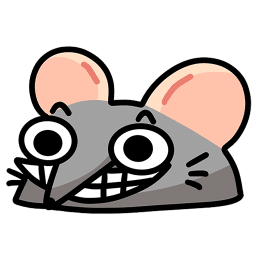
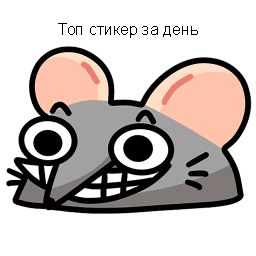
fix: fix output format

Changed region(s): [[0.2188, 0.0938, 0.5312, 0.1562], [0.5625, 0.0938, 0.75, 0.1562], [0.75, 0.125, 0.7812, 0.1562]]

diff --git a/VKInteraction.py b/VKInteraction.py
@@ -9,11 +9,10 @@ from Utils.ReturnGraphicUtils import return_graphic
 token = os.getenv("VK_TOKEN")
 
 PEER_ID = 2000000000 + 234  # ID Беседы ПИ. НЕ ОТПРАВЛЯЙТЕ НИЧЕГО ТУДА, МЕНЯЙТЕ В SEND_REPORT НА ДРУГОЙ ID
-#PEER_ID = 2000000000 + 90
+# PEER_ID = 2000000000 + 90
 # Инициализация сессии
 vk_session = vk_api.VkApi(token=token)
 vk = vk_session.get_api()
-
 
 
 # Функция для получения сообщений за сутки
@@ -24,9 +23,9 @@ def get_messages_for_day(peer_id, start_time, end_time):
 
     while True:
         response = vk.messages.getHistory(
-            peer_id = peer_id,
-            count = count,
-            offset = offset
+            peer_id=peer_id,
+            count=count,
+            offset=offset
         )
 
         # Добавляем полученные сообщения в список
@@ -48,7 +47,7 @@ def get_messages_for_day(peer_id, start_time, end_time):
 def get_user_name(user_id):
     if user_id < 0:  # Если ID отрицательный, это группа
         return f"Группа {abs(user_id)}"
-    user_info = vk.users.get(user_ids = user_id)[0]
+    user_info = vk.users.get(user_ids=user_id)[0]
     return f"{user_info['first_name']} {user_info['last_name']}"
 
 
@@ -70,17 +69,6 @@ def send_report(peer_id):
         f"🤠 Краткий пересказ, о чем говорили за день:\n\n{gpt_summary}\n\n"
     )
     # Чтобы отправлять не в ту же беседу, откуда парсились сообщения - замени peer_id на нужный параметр
-    vk.messages.send(peer_id=peer_id, message=report, random_id=int(time.time()))
-    time.sleep(1)
-
-    vk.messages.send(peer_id=peer_id, message="🏆 Самый часто встречающийся за день стикер",
-                     attachment=sticker_attachment, random_id=int(time.time()))
-    time.sleep(1)
-
-    vk.messages.send(peer_id=peer_id, message="",
-                     attachment=msgs_by_time_attachment, random_id=int(time.time()))
-    time.sleep(1)
-
-    vk.messages.send(peer_id=peer_id, message="",
-                     attachment=sentiment_attachment, random_id=int(time.time()))
-    time.sleep(1)
+    vk.messages.send(peer_id=peer_id, message=report,
+                     attachment=f"{sticker_attachment},{msgs_by_time_attachment},{sentiment_attachment}",
+                     random_id=int(time.time()))

diff --git a/Utils/StickerUtils.py b/Utils/StickerUtils.py
@@ -1,11 +1,29 @@
 import requests
 from VKInteraction import vk
+from PIL import Image, ImageDraw, ImageFont
+
 
 def download_photo(url):
+    # Скачиваем фото
     response = requests.get(url)
     if response.status_code == 200:
         with open('Photo/sticker.png', 'wb') as file:
             file.write(response.content)
+        image = Image.open('Photo/sticker.png')
+        draw = ImageDraw.Draw(image)
+
+        try:
+            font = ImageFont.truetype("arial.ttf", 16)
+        except IOError:
+            font = ImageFont.load_default()
+        text = "Топ стикер за день"
+        image_width, image_height = image.size
+        bbox = draw.textbbox((0, 0), text, font=font)
+        text_width = bbox[2] - bbox[0]
+        text_height = bbox[3] - bbox[1]
+        text_position = ((image_width - text_width) // 2, 20)
+        draw.text(text_position, text, font=font, fill="black")
+        image.save('Photo/sticker.png')
     else:
         print("Не удалось скачать фото")
 

diff --git a/Main.py b/Main.py
@@ -4,6 +4,6 @@ from Utils.TimeUtils import wait_until
 # Чтобы протестить работу, поставь время на 1 минуту больше текущего и id в send_report укажи для избранного
 # Ожидание отправки ~ 2 минуты. Чтобы проверить, что он реально чето делает, поставь брейкпоинт в методе get_user_name
 while True:
-    wait_until(0, 1, 40)
-    send_report(2000000143)
+    wait_until(6, 21, 0)
+    send_report(181507171)
     print("Сообщение отправлено")

diff --git a/AIResponse.py b/AIResponse.py
@@ -1,4 +1,3 @@
-import requests
 import time
 import openai
 

diff --git a/Utils/ReturnGraphicUtils.py b/Utils/ReturnGraphicUtils.py
@@ -1,4 +1,3 @@
-import time
 import vk_api
 
 
